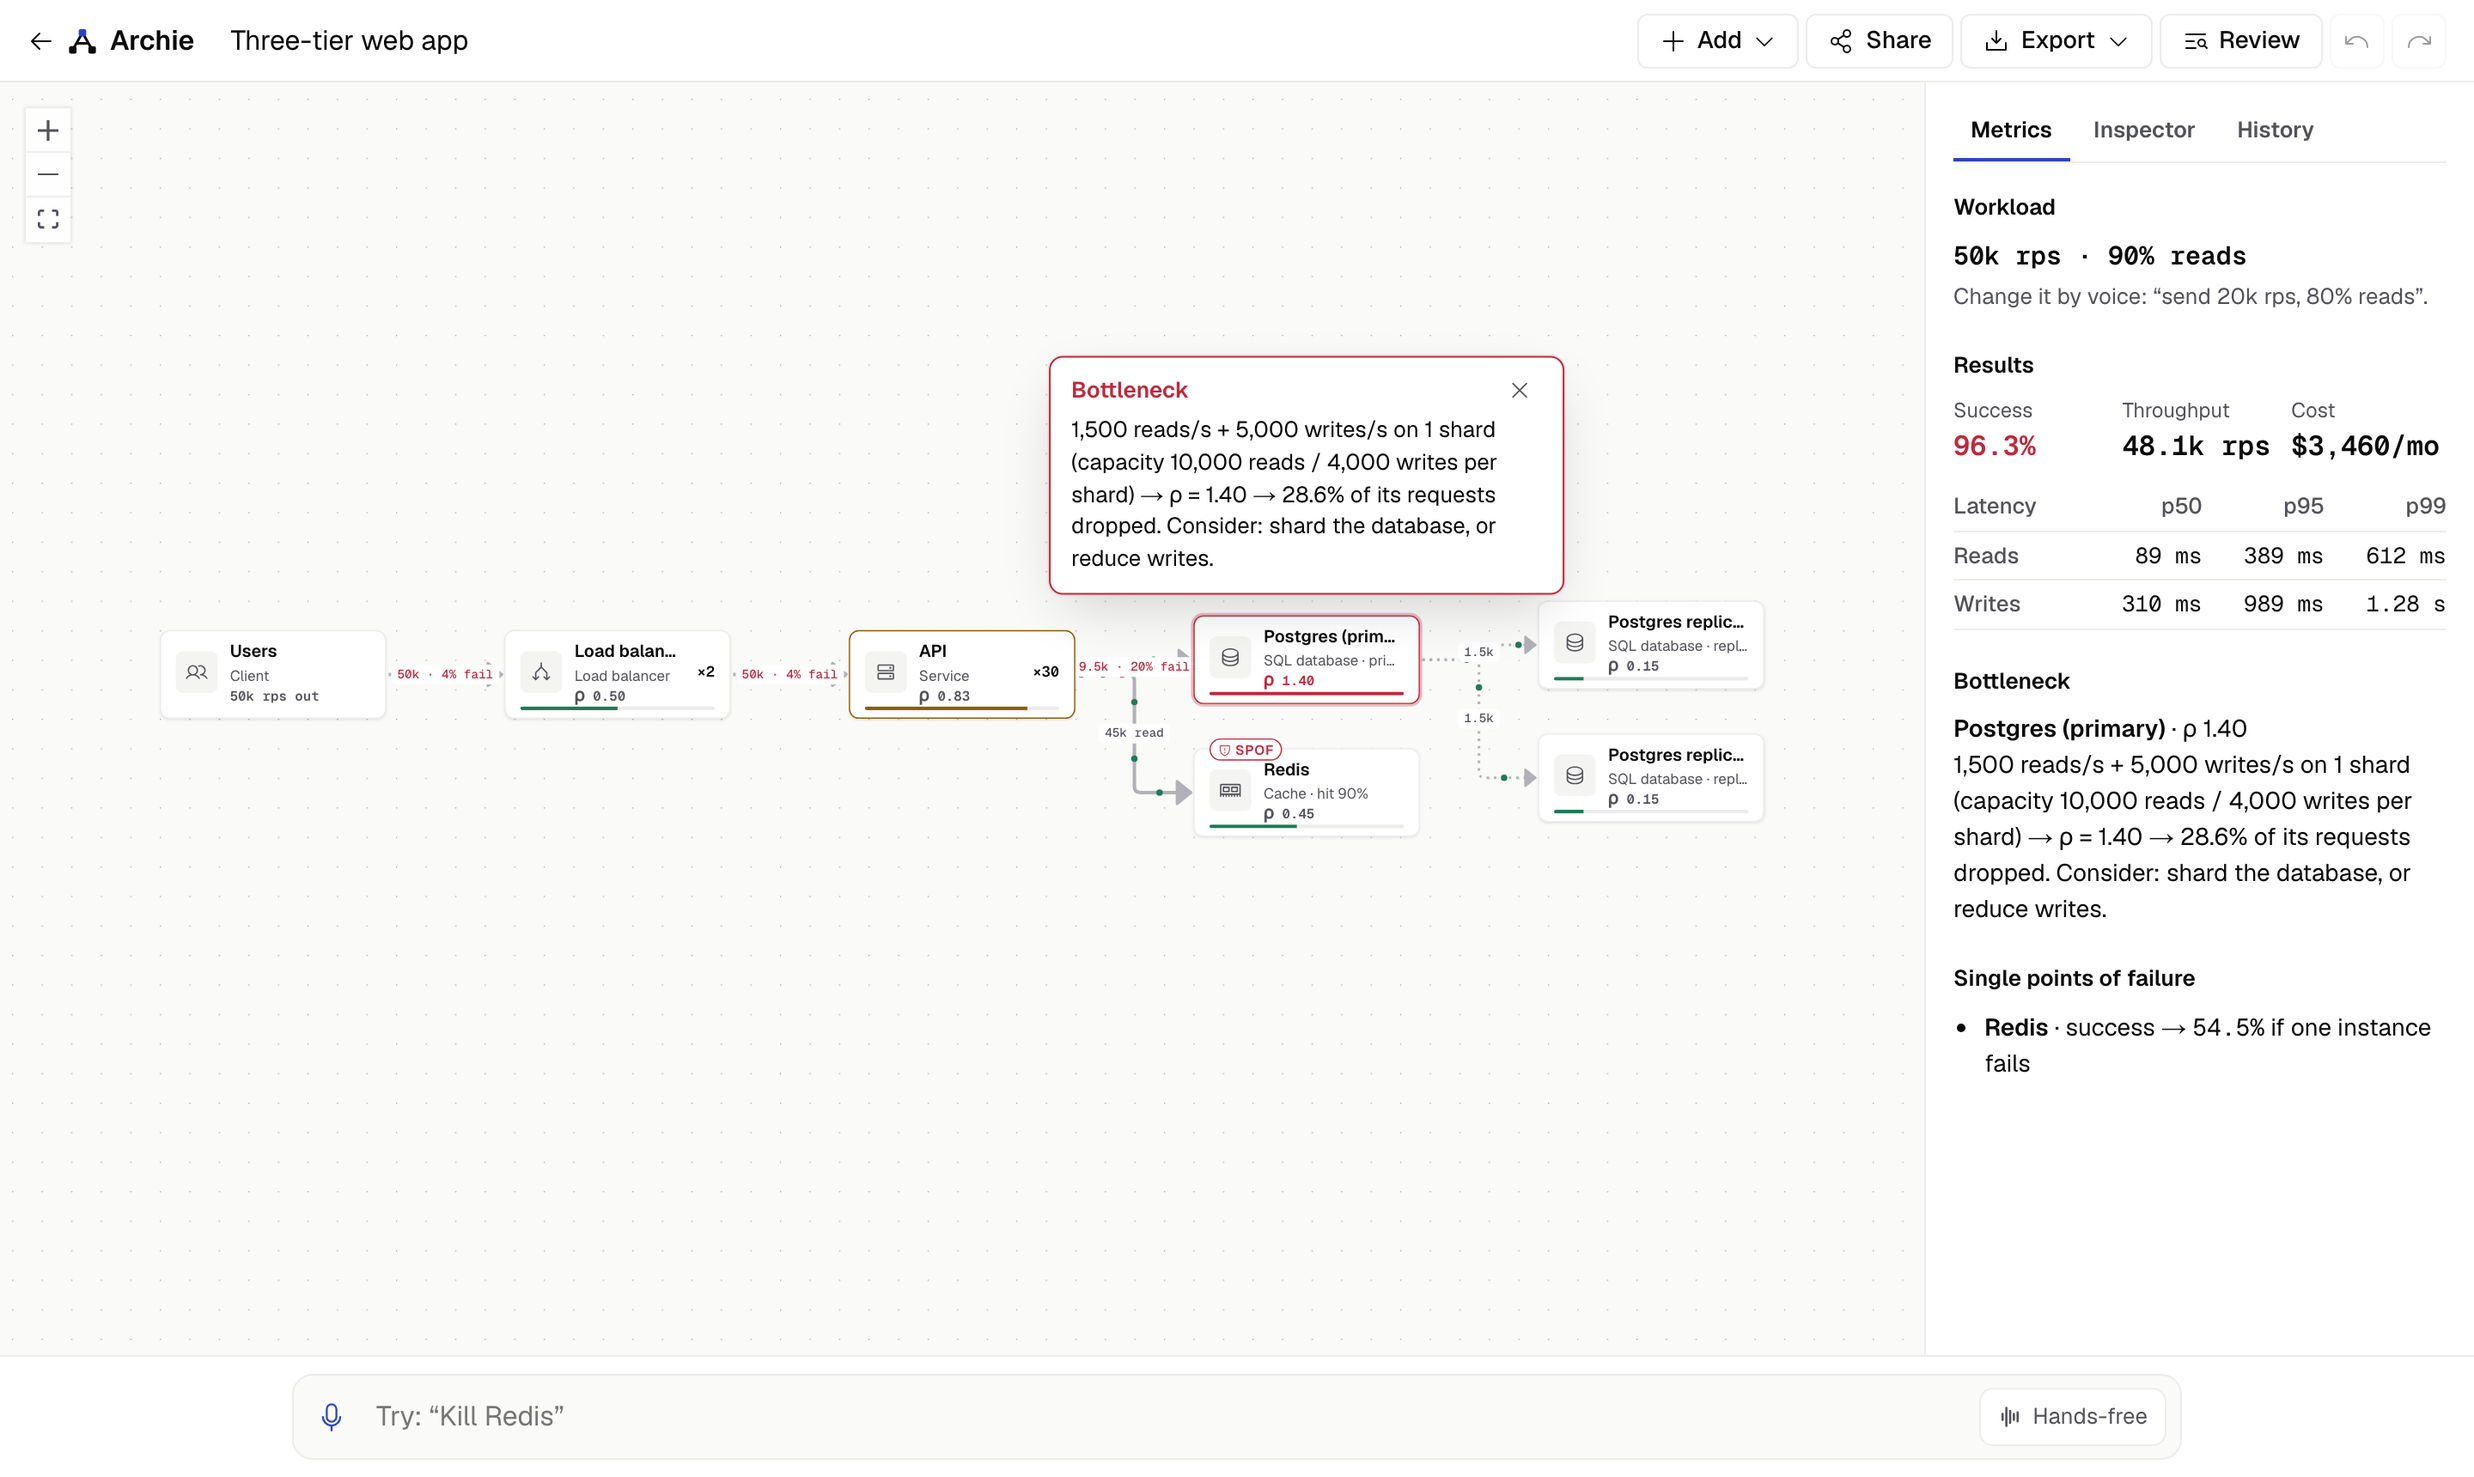
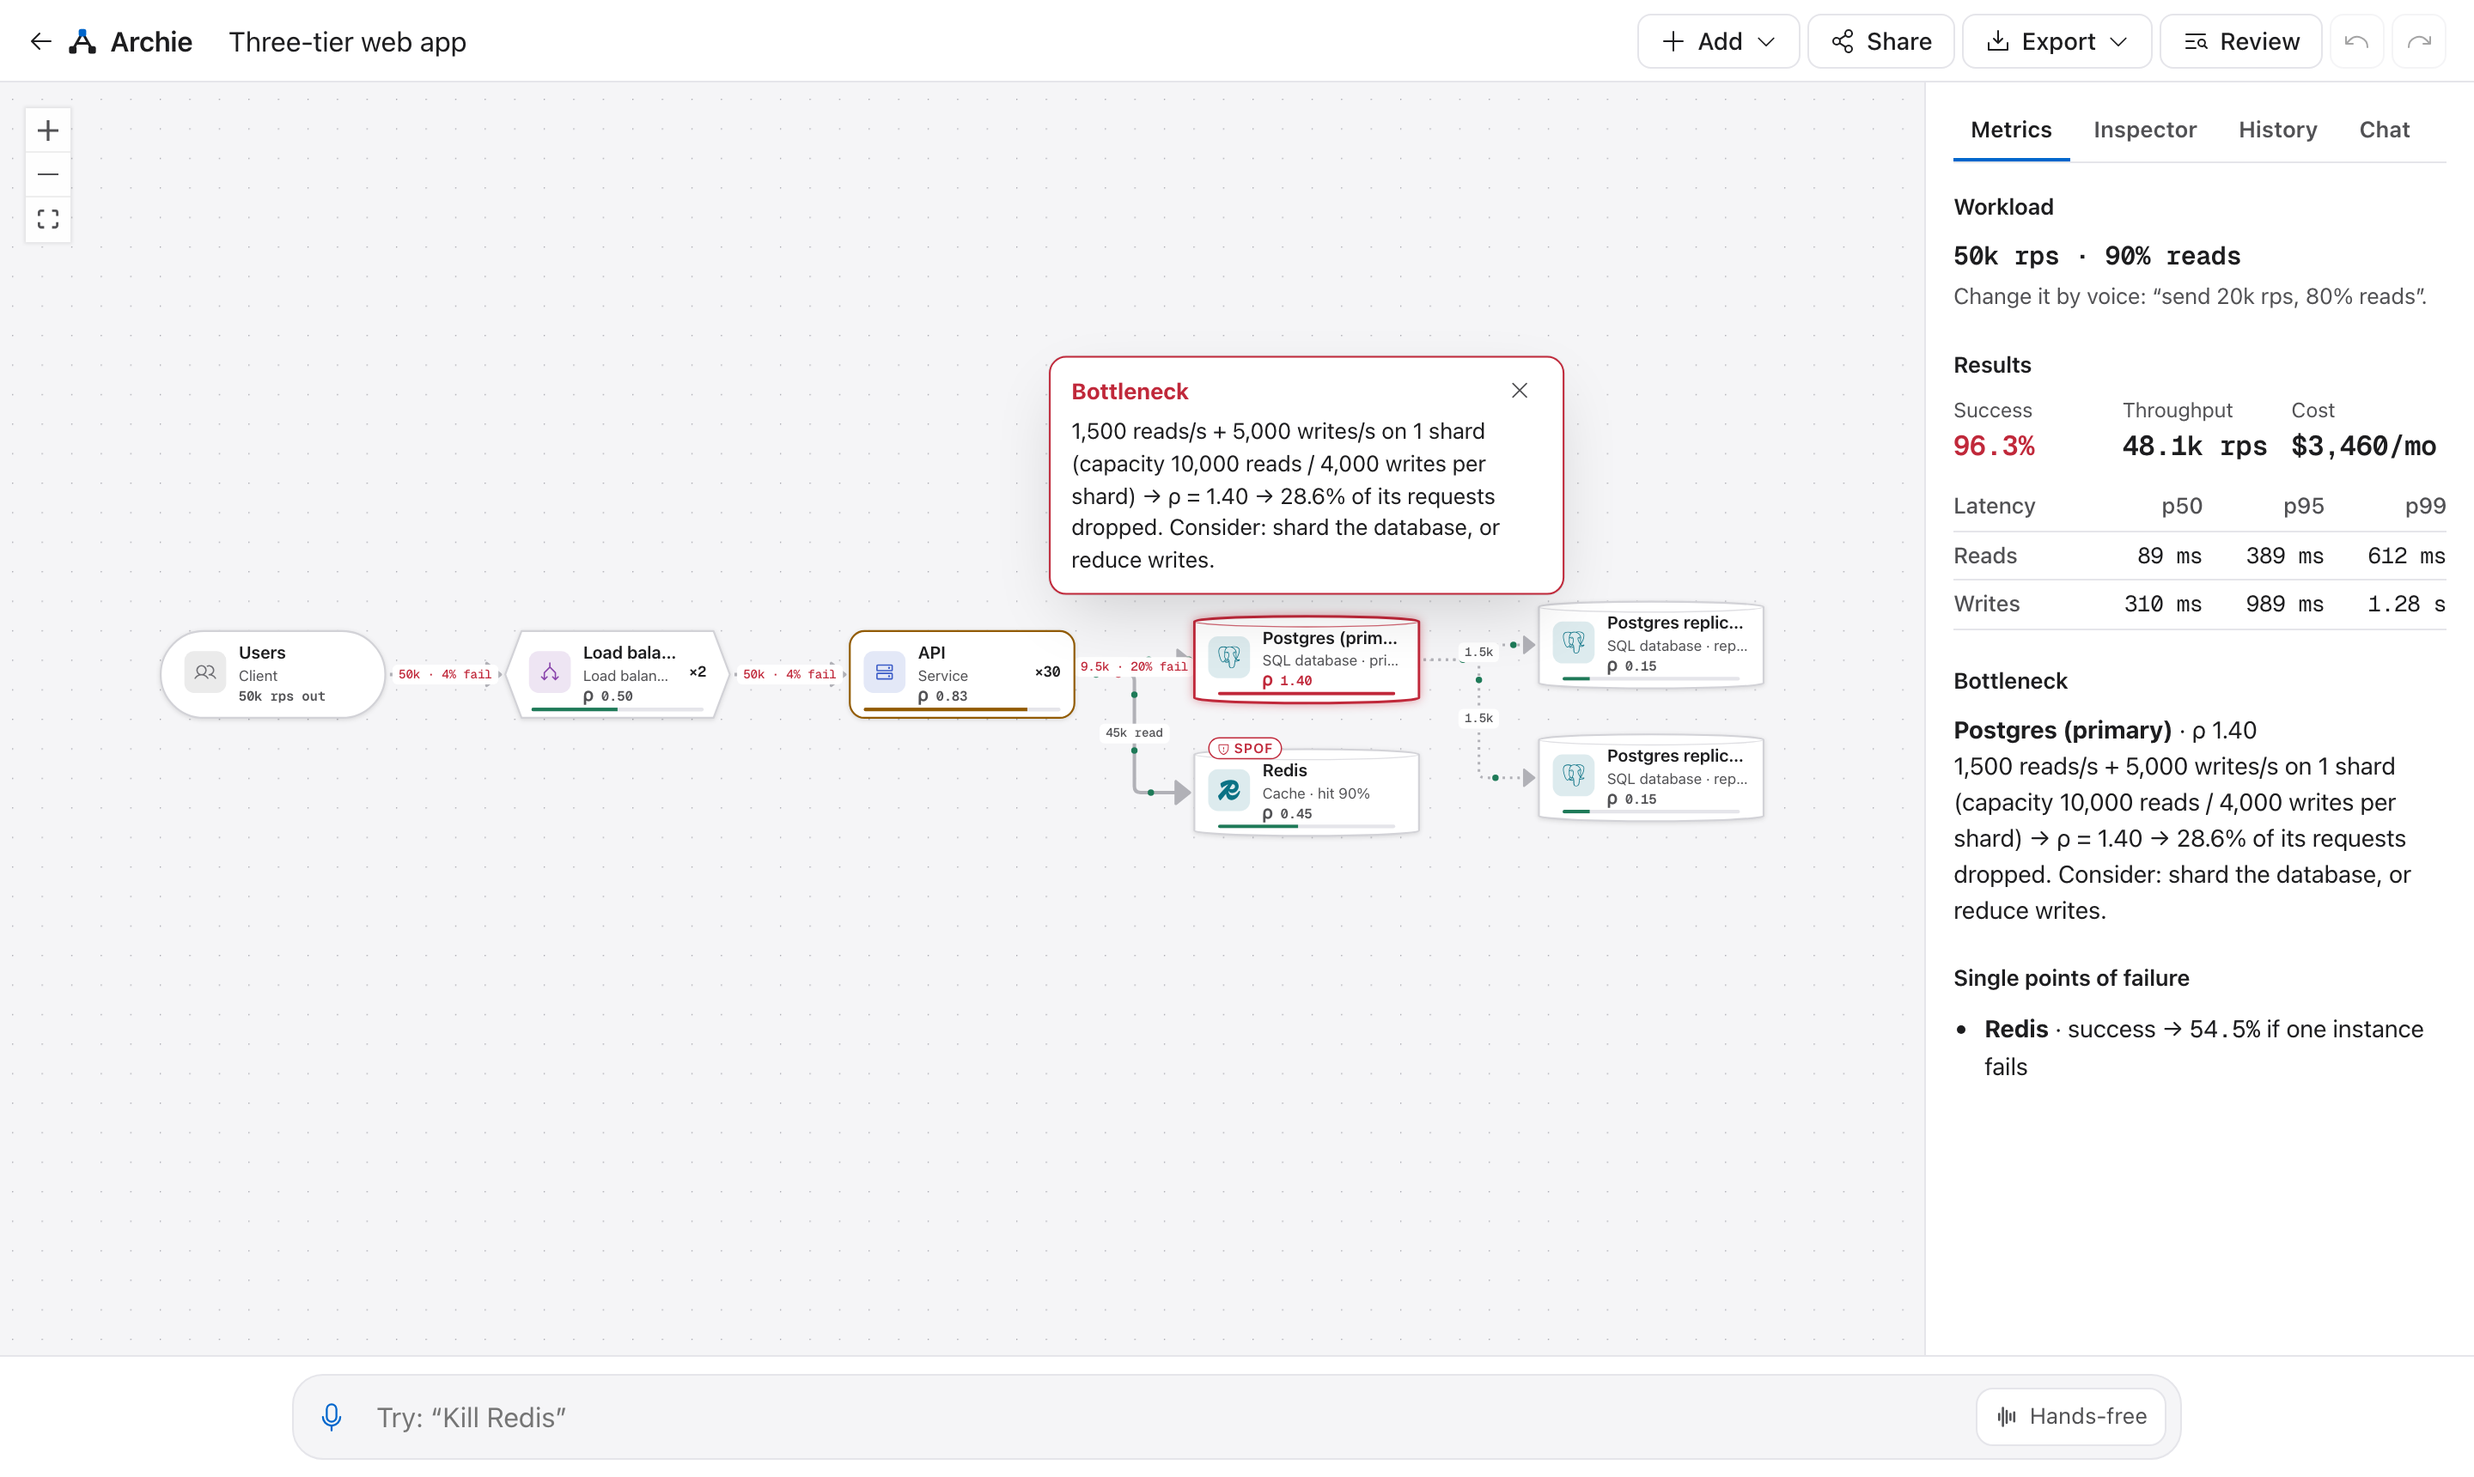
docs(readme): refresh screenshots for 1.2.0 and add the chat image
Every README image showed the old box nodes. Regenerated them with
scripts/screenshots.ts (which now also captures the Chat tab), and
updated the status line, the How it works diagram, the roadmap table
and the project structure.

diff --git a/scripts/screenshots.ts b/scripts/screenshots.ts
@@ -174,6 +174,45 @@ async function main() {
     await page.screenshot({ path: join(ASSETS, "board-inspector.png") });
     await context.close();
 
+    // Chat: a question, an answer that cites the simulator, then a follow-up that relies on it.
+    const cc = await browser.newContext({ viewport: { width: 1440, height: 900 }, deviceScaleFactor: 2 });
+    const cp = await cc.newPage();
+    let call = 0;
+    await cp.route("**/api/command", (route) => {
+      const sent = route.request().postDataJSON() as { baseVersion: number };
+      call += 1;
+      const reply =
+        call === 1
+          ? {
+              kind: "answer",
+              ops: [],
+              message:
+                "Postgres (primary) is the bottleneck at ρ 1.40: 9,500 reads/s + 5,000 writes/s on one shard. Sharding it into two brings ρ to 0.70.",
+              focusNodeIds: ["pg"],
+            }
+          : {
+              kind: "ops",
+              ops: [{ type: "updateNode", id: "pg", props: { shards: 2 } }],
+              message: "Sharded Postgres (primary) into 2, as discussed.",
+              focusNodeIds: ["pg"],
+            };
+      return route.fulfill({
+        json: { options: [], attempts: 1, model: "screenshot", timings: { totalMs: 1400, llmMs: 1380 }, baseVersion: sent.baseVersion, ...reply },
+      });
+    });
+    await openThreeTier(cp);
+    const chatBar = cp.getByRole("textbox", { name: "Command" });
+    for (const text of ["Add a queue called Kafka.", "What's the bottleneck right now?", "Do what you suggested."]) {
+      await chatBar.fill(text);
+      await chatBar.press("Enter");
+      await cp.waitForTimeout(700);
+    }
+    await cp.getByRole("button", { name: "Dismiss answer" }).click().catch(() => {});
+    await cp.getByRole("tab", { name: "Chat" }).click();
+    await cp.waitForTimeout(500);
+    await cp.screenshot({ path: join(ASSETS, "board-chat.png") });
+    await cc.close();
+
     // Interview mode: three-tier against the URL shortener, one answered question, then the scorecard.
     const iv = await browser.newContext({
       viewport: { width: 1440, height: 900 },

diff --git a/README.md b/README.md
@@ -19,7 +19,7 @@ Archie is a system-design board you talk to. You describe changes out loud ("fiv
 
 ![The three-tier template at 50,000 requests per second: Postgres is saturated at ρ 1.40 and the bottleneck note explains why](docs/assets/board-bottleneck.png)
 
-> Built by voice with [Wispr Flow](https://ref.wisprflow.ai/hhg) for Hacker House Goa 2026. **Status:** Phases 0–7 are done and the app is deployed; Phase 8 (record and submit) is next ([roadmap](docs/29-roadmap.md), [project state](docs/31-project-state.md)).
+> Built by voice with [Wispr Flow](https://ref.wisprflow.ai/hhg) for Hacker House Goa 2026. **Status:** Phases 0–7 are done and the app is deployed (1.2.0: chat with conversation memory, diagram shapes and logos); Phase 8 (record and submit) is next ([roadmap](docs/29-roadmap.md), [project state](docs/31-project-state.md)).
 
 ## What works today
 
@@ -39,6 +39,8 @@ Archie is a system-design board you talk to. You describe changes out loud ("fiv
 - **Share, export and replay.** **Share** copies a link that opens a read-only copy with the live simulation; the design travels in the link's `#` fragment, which browsers never send to the server, and **Duplicate** saves an editable copy. **Export** downloads JSON (re-importable with **Open file** on the home page), a Mermaid diagram, a Markdown design doc with the simulator's numbers and the review findings, or an SVG/PNG image. **Replay** steps through a session's changes, undo included.
 - **Boards in your browser.** Templates (three-tier, URL shortener, chat), undo/redo, change history, automatic layout, light and dark themes. Boards are saved in IndexedDB and never leave your browser unless you share or export them.
 - **A public eval report.** [`/evals`](docs/22-evaluation.md) renders the committed results: accuracy per category on the held-out test split, false actions, cases with no answer from any free-tier provider, and latency percentiles for every tier.
+
+![The Chat tab: a question, an answer citing the simulator, and "do what you suggested" sharding Postgres because Archie remembers the conversation; the board shows cylinders for databases, a pipe for Kafka and product logos](docs/assets/board-chat.png)
 
 ![After "Kill Redis": the blast radius panel shows success falling from 96.3% to 54.5% and both replicas saturating](docs/assets/board-blast-radius.png)
 
@@ -68,6 +70,9 @@ Archie is a system-design board you talk to. You describe changes out loud ("fiv
 | 5 | Design pass: Inspector, phone layout, mic fallback, access-code dialog, accessibility gate ([plan](docs/33-phase-5-plan.md)) | ✅ Done |
 | 6 | Interview mode with simulator-checked SLOs and a scorecard, design review, SPOF scan, `/design` style guide ([plan](docs/34-phase-6-plan.md)) | ✅ Done |
 | 7 | 92 eval cases, `/evals`, share links, exports and Open file, replay, deployment on Render ([plan](docs/35-phase-7-plan.md)) | ✅ Done (#12) |
+| 1.1 | Apple-inspired redesign, manual editing (Add ▾, canvas connect), legal pages | ✅ Done (#16–#21) |
+| 1.2 | Chat tab with conversation memory, node shapes by family, brand logos ([ADR-019/020](docs/30-architecture-decisions.md)) | ✅ Done (#22) |
+| Next | Shapes in the SVG/PNG export; a multi-turn eval category | Planned |
 
 ## Results
 
@@ -98,6 +103,7 @@ The simulator's headline numbers are golden-tested against hand calculations in 
 ```mermaid
 flowchart LR
     V[Wispr Flow dictation] --> C[Command bar]
+    C <--> H[(Chat log<br/>last 10 turns)]
     C --> F{Fast path<br/>deterministic parser}
     F -- understood --> O[Validated graph ops]
     F -- unsure --> A[AI tier · /api/command<br/>Gemini → Groq fallback<br/>+ validation + guardrails]
@@ -131,11 +137,11 @@ flowchart LR
 ## Project structure
 
 ```text
-frontend/    Next.js app: pages, canvas, command bar, metrics panel
+frontend/    Next.js app: pages, canvas (family shapes, brand logos), command bar, chat, metrics panel
 backend/     Hono API: /api/health and /api/command (rate limit, optional access code)
 simulator/   graph model, operations and the simulation engine (pure TypeScript)
 ai/          fastpath/ command parser (browser-safe); llm/ server-only model harness (Gemini → Groq, or Claude) with quota guards
-database/    IndexedDB repository and share-link codec
+database/    IndexedDB repository (boards, events, chat log) and share-link codec
 evals/       eval runner, cases, fixtures, benchmarks and results
 specs/       JSON Schemas, OpenAPI and fixtures (machine-readable contracts)
 tests/       contract and end-to-end tests
